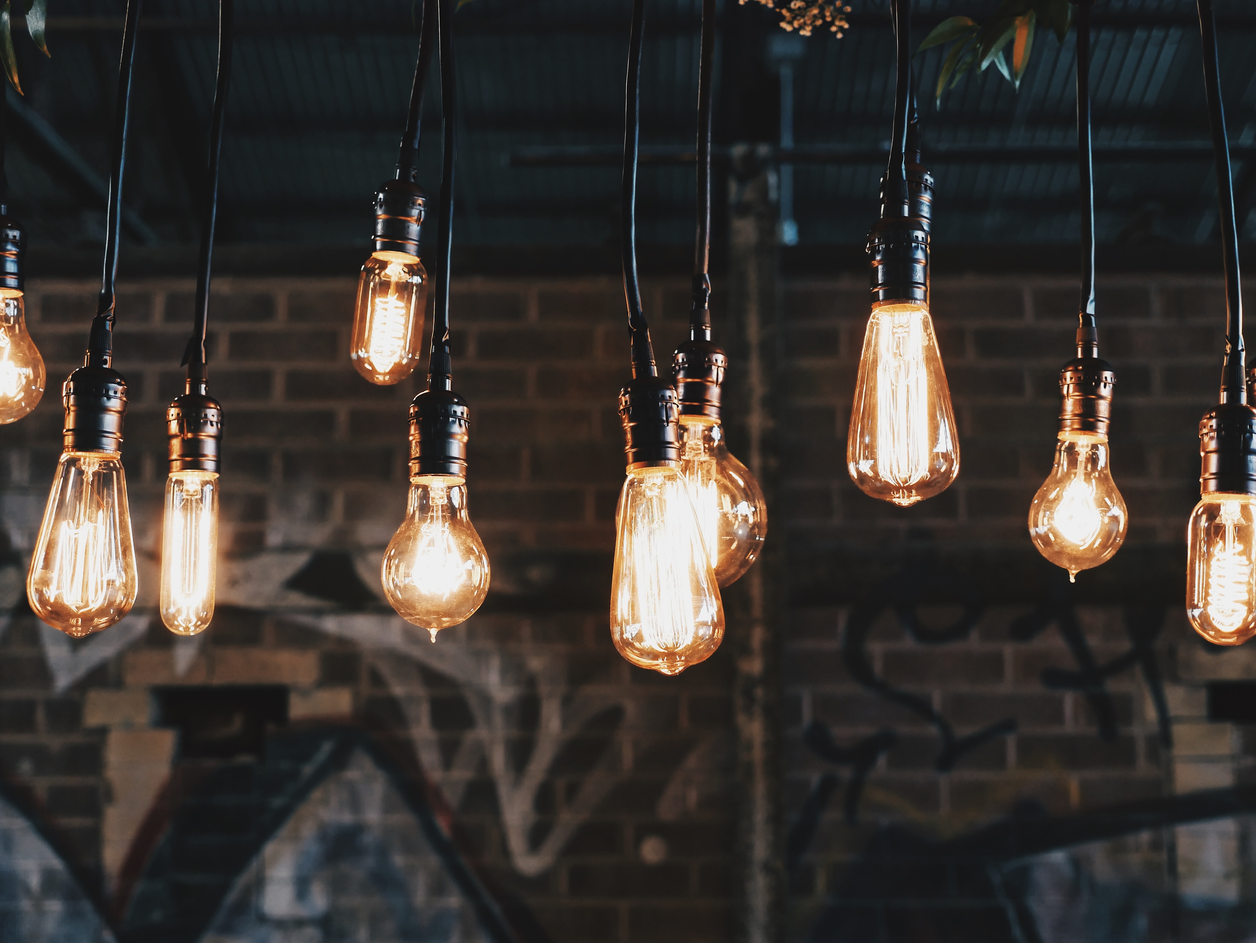
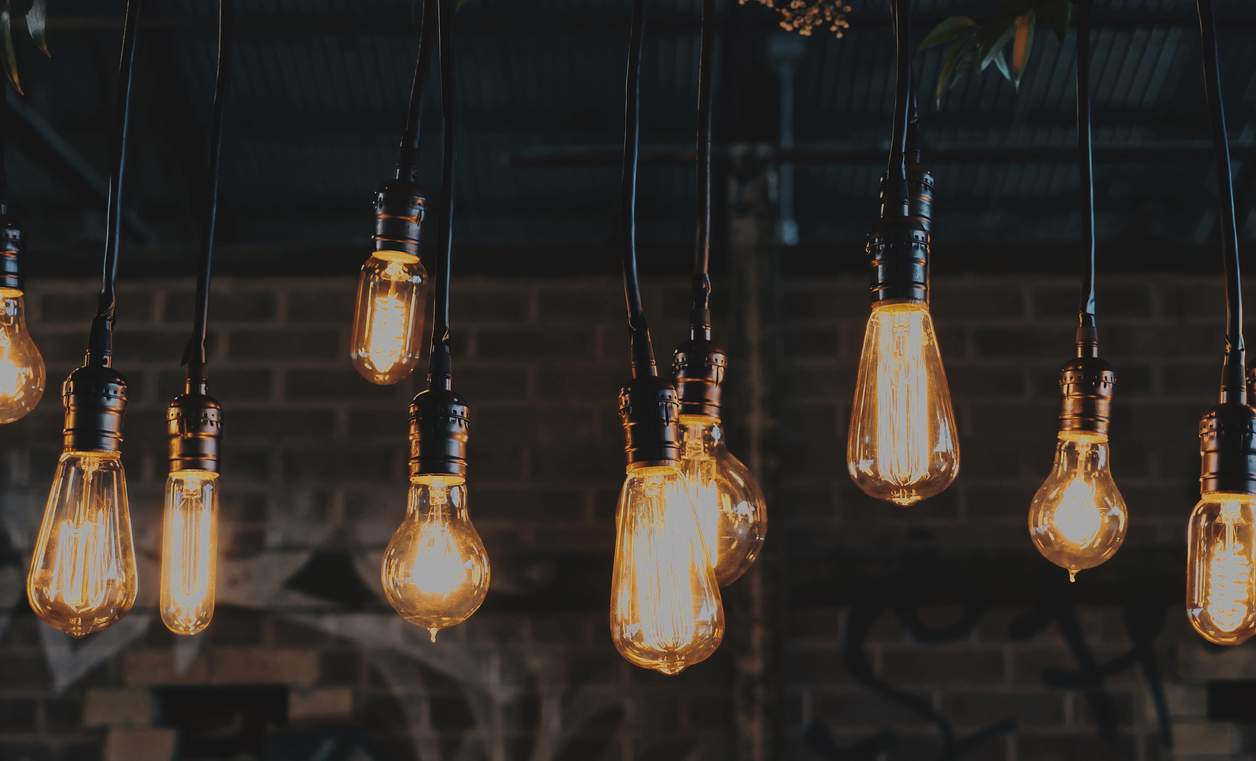
darker landing page hero img, increase font size on not-logged in pages, changed login page layout

diff --git a/app/templates/users/login.html b/app/templates/users/login.html
@@ -1,22 +1,29 @@
-{% extends 'columns.html' %}
+{% extends 'landing.html' %}
 {% block title %}Login{% endblock %}
 
 {% block page_name %}Login{% endblock %}
-{% block content %}
-  <form method="POST">
-    {% csrf_token %}
-    {% for field in form %}
-      {% for error in field.errors %}
-        {{ error|escape }}
-      {% endfor %}
-    {% endfor %}
-    {% for field in form %}
-      <div class="field">
-        {{ field.label_tag }}
-        <div class="control">{{ field }}</div>
-      </div>
-    {% endfor %}
-    <button type="submit" class="button is-primary">Login</button>
-    <a href="{% url 'forgot-pw' %}">Forgot your password?</a>
-  </form>
+{% block content %} 
+  <div class="columns">
+    <div class="column is-5 has-text-right-desktop"> 
+      <h1>Login</h1>
+    </div>
+    <div class="column">
+      <form method="POST">
+        {% csrf_token %}
+        {% for field in form %}
+          {% for error in field.errors %}
+            {{ error|escape }}
+          {% endfor %}
+        {% endfor %}
+        {% for field in form %}
+          <div class="field">
+            {{ field.label_tag }}
+            <div class="control">{{ field }}</div>
+          </div>
+        {% endfor %}
+        <button type="submit" class="button is-primary">Login</button>
+        <a href="{% url 'forgot-pw' %}">Forgot your password?</a>
+      </form>
+    </div>
+  </div>
 {% endblock %}

diff --git a/app/templates/registration/password_reset_form.html b/app/templates/registration/password_reset_form.html
@@ -11,15 +11,15 @@
       <p>Please specify your email address to receive instructions for resetting it.</p>
       <form method="post">
           {% csrf_token %}
-          <div class="fields">  
+          <div class="field">  
+            <label for="id_email">E-mail address:</label> 
             <div class="control">
-              <label for="id_email">E-mail address:</label> 
               <input id="id_email" name="email" maxlength="254" class="input" type="email" required/>
               <div class="help is-danger">{{ form.email.errors }}</div>
             </div>
           </div>
 
-         <button type="submit" class="button is-info">Submit</button>
+         <button type="submit" class="button is-primary">Submit</button>
       </form>
     </div>
   </div>

diff --git a/app/assets/css/home.css b/app/assets/css/home.css
@@ -6173,6 +6173,10 @@ header {
   -o-background-size: cover;
   background-size: cover;
   color: #fff; }
+  .hero-landing .columns {
+    font-size: 1.5rem; }
+  .hero-landing a {
+    color: #8c706b; }
 
 h1, h2 {
   font-family: 'Amatic SC'; }
@@ -6208,9 +6212,6 @@ section .subtitle {
   .navbar-burger span {
     background: #8c706b;
     height: 2px; }
-
-.navbar-menu {
-  background: rgba(255, 255, 255, 0.1); }
 
 @media screen and (min-width: 769px), print {
   .sticky {

diff --git a/app/assets/scss/home.scss b/app/assets/scss/home.scss
@@ -43,6 +43,8 @@ header {
   -o-background-size: cover;
   background-size: cover;
   color: #fff; 
+  .columns { font-size: 1.5rem; }
+  a { color: $brown; }
 }
 
 h1,h2 { font-family: 'Amatic SC'; }
@@ -74,9 +76,6 @@ section {
     background: $brown; 
     height: 2px;
   }
-}
-.navbar-menu { 
-  background: rgba(#fff, 0.1); 
 }
 
 // MEDIA QUERIES
